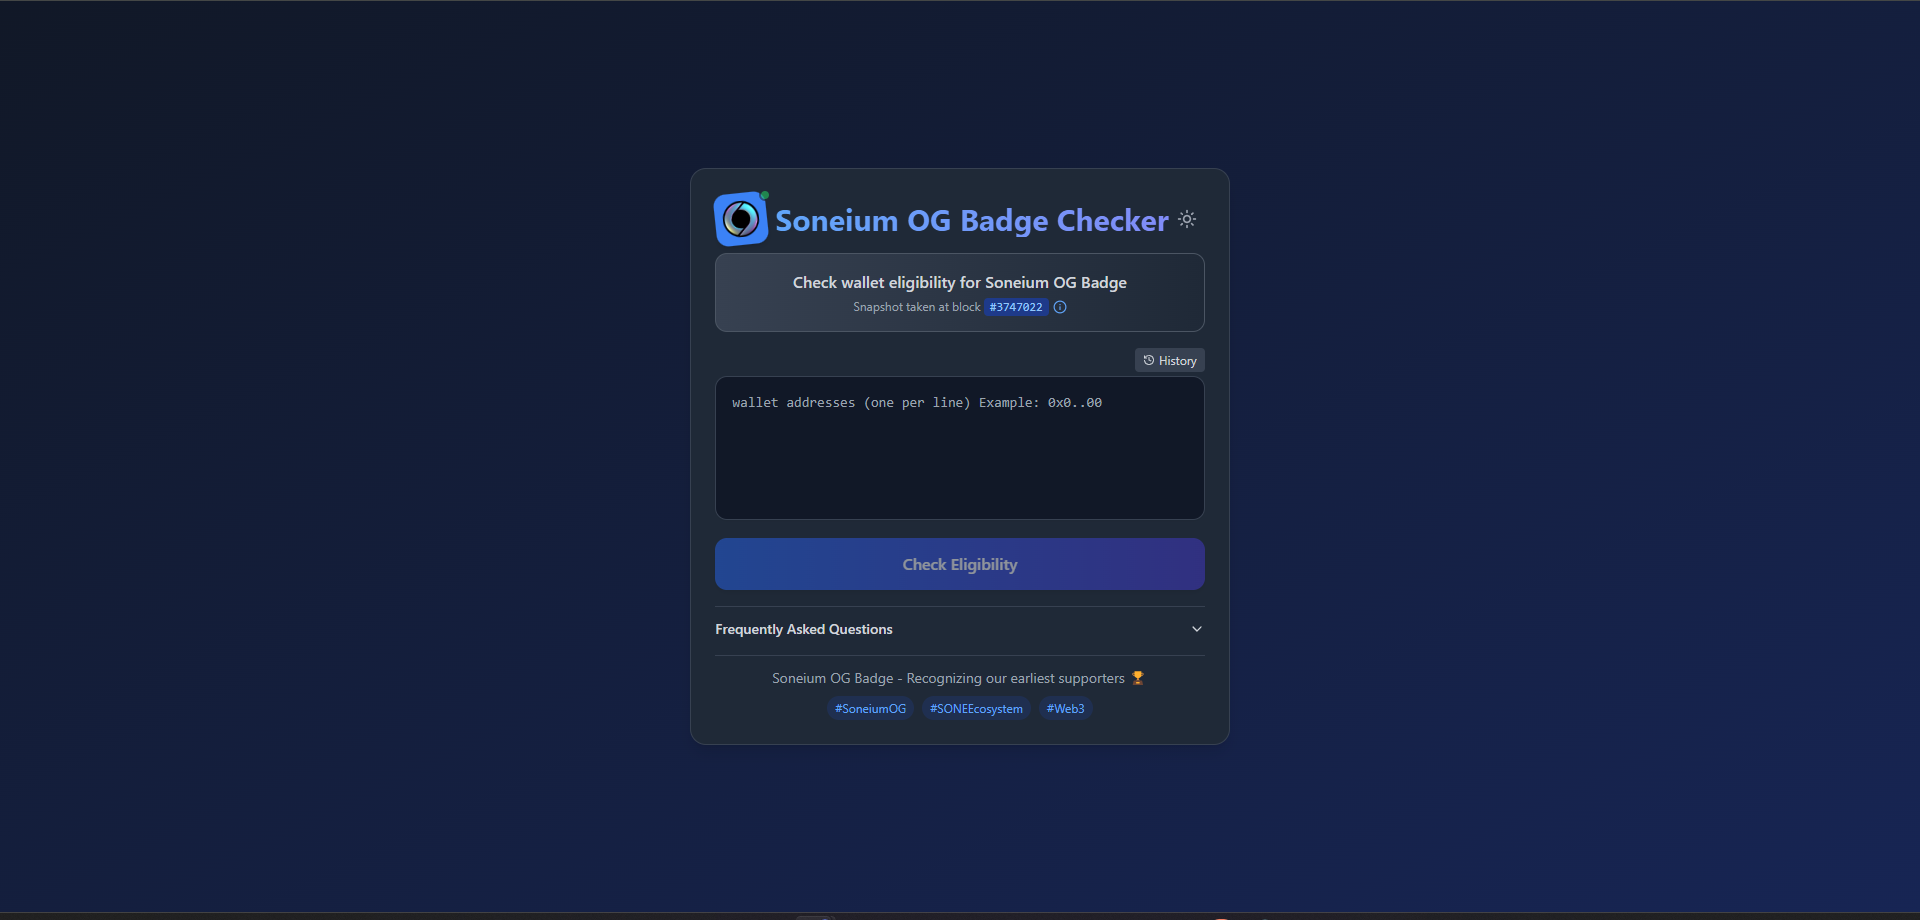
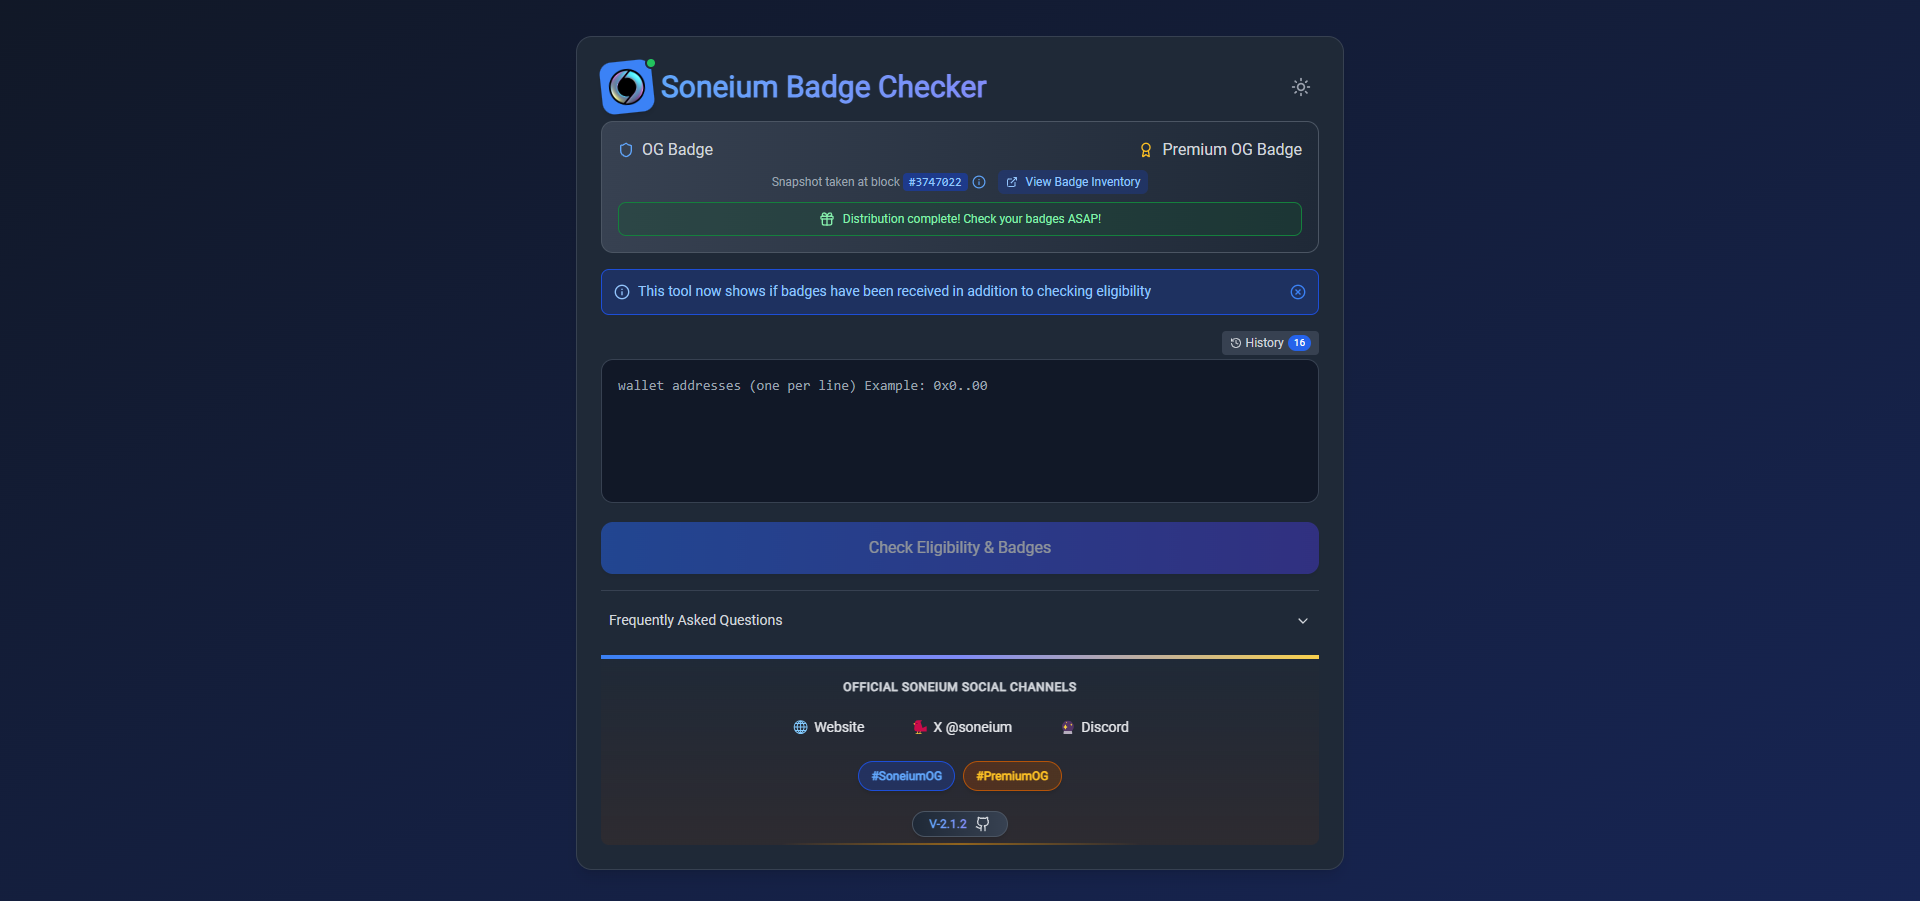
Update README with badge contract information and enhance FAQ section

diff --git a/README.md b/README.md
@@ -3,7 +3,7 @@
 <div align="center">
   <img src="app/assets/dekstop.png" alt="Desktop View" style="max-width: 80%; margin-bottom: 20px;">
   <br><br> 
-  <img src="app/assets/mobile.png" alt="Mobile View" style="max-width: 8%; margin-top: 60px;">
+  <img src="app/assets/mobile.jpg" alt="Mobile View" style="max-width: 8%; margin-top: 60px;">
 </div>
 
 <br><br> 
@@ -17,6 +17,7 @@ A web-based tool to check if your wallet address is eligible for the Soneium OG 
 ## ✨ Features
 
 - **OG & Premium Badge Verification**: Check eligibility for both standard OG Badge and Premium OG Badge
+- **Badge Contract Information**: Access details to import your badges into any compatible wallet
 - **Batch Checking**: Verify multiple wallet addresses simultaneously (one per line)
 - **Real-time Validation**: Instant feedback on wallet eligibility with transaction counts
 - **Premium Badge Detection**: Identifies wallets eligible for the enhanced Premium OG Badge
@@ -26,7 +27,7 @@ A web-based tool to check if your wallet address is eligible for the Soneium OG 
 - **Mobile Responsive**: Optimized for all device sizes with adaptive UI
 - **Search & Filter**: Easily search through checked addresses by status or details
 - **History Tracking**: Quick access to previously checked addresses with localStorage persistence
-- **Detailed FAQ Section**: Expandable questions and answers with comprehensive information
+- **Enhanced FAQ Section**: Comprehensive information with badge contract details for wallet import
 
 ## 🏆 Badge Eligibility Criteria
 
@@ -40,6 +41,16 @@ Requires meeting any one of these criteria:
 - Bridged 1 ETH via the native bridge
 - Bridged ~70K ASTR (≈1 ETH) via Astar Network CCIP 
 - Bridged $2.5K USDC via the native bridge
+
+## 💎 Badge Contract Information
+
+The badges have been distributed as Soulbound tokens (non-transferable):
+
+- **Contract Address**: `0xEE70e6d461F0888Fd9DB60cb5B2e933adF5f4c7C`
+- **OG Badge**: Token ID `2`
+- **Premium OG Badge**: Token ID `1`
+
+Users can import these tokens to any compatible wallet using these details.
 
 ## 📋 Usage Instructions
 
@@ -58,13 +69,14 @@ The application is fully responsive and works on mobile devices. However, the di
 
 ## 🗓 Distribution Timeline
 
-Both the OG Badge and Premium OG Badge are scheduled to be distributed in the first week of March 2025 as Soulbound tokens (non-transferable).
+Both OG Badge and Premium OG Badge distribution is now complete as of March 2, 2025. All eligible wallets should have received their Soulbound tokens.
 
 ## 🔍 Technical Details
 
 - **Snapshot Block**: #3747022
 - **Block Hash**: 0x9c1a6ef0f3d4cf2ff5844ae0727cdc1c2888650bd6f62bd97e9f8ffa6b8ae430
 - **Eligible Wallets**: 426,994 addresses qualify for the OG Badge
+- **Last Updated**: March 5, 2025
 
 ## 🛠 Technologies
 
@@ -75,6 +87,13 @@ Both the OG Badge and Premium OG Badge are scheduled to be distributed in the fi
 - Local Storage for preferences and history
 - CSV export functionality
 - Vercel (Hosting)
+
+## 🧩 Code Architecture
+
+- **Component Separation**: Footer and FAQ components separated for better code organization and maintainability
+- **Responsive Design**: Adaptive UI components for all screen sizes
+- **Dark/Light Mode**: Theme toggle with system preference detection
+- **Modular Structure**: Reusable components for consistent UI elements
 
 ## 🚀 Local Development
 
